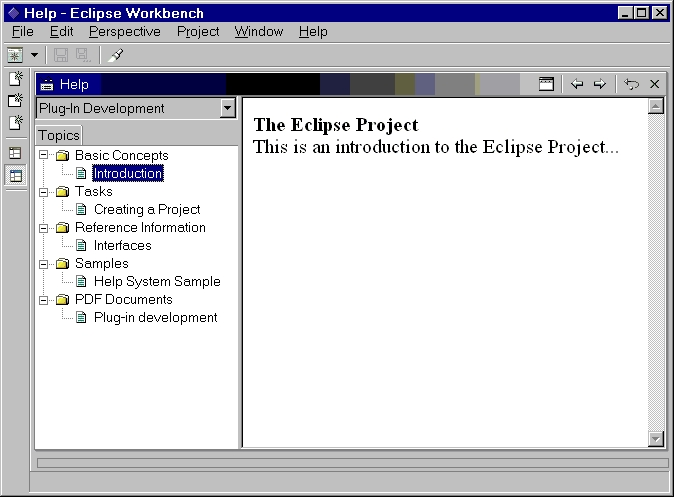
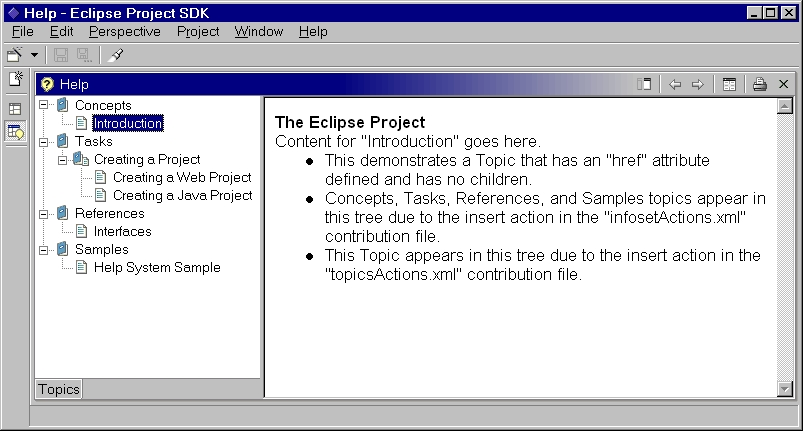
1GDU57M

Changed region(s): [[0.0, 0.0, 1.0, 1.0]]

diff --git a/org.eclipse.help/doc/org_eclipse_help_contributions.html b/org.eclipse.help/doc/org_eclipse_help_contributions.html
@@ -219,7 +219,7 @@ insertion points are ignored.
 <br>&nbsp;
 <p><b><i>Examples:</i></b>
 <p>The following is an example of using the <tt>contributions</tt> extension
-point. Assume the following is for a plug-in with id&nbsp; named <tt>"com.example.isvguide"</tt>.
+point. Assume the following is for a plug-in with id&nbsp; named <tt>"org.eclipse.help.examples.ex1"</tt>.
 (The example is intended as a general sample, and it should be noted that
 the same documentation hierarchy, resulting from all the following contribution
 files, could also be created with various combination of topics and actions
@@ -235,23 +235,27 @@ view, and another to define the&nbsp;&nbsp; --></tt>
 <br><tt>&nbsp;&nbsp; &lt;!-- Topics and their associated actions.&nbsp;&nbsp;&nbsp;&nbsp;&nbsp;&nbsp;&nbsp;&nbsp;&nbsp;&nbsp;&nbsp;&nbsp;&nbsp;&nbsp;&nbsp;&nbsp;&nbsp;&nbsp;&nbsp;&nbsp;&nbsp;&nbsp;&nbsp;&nbsp;&nbsp;&nbsp;&nbsp;&nbsp;&nbsp;&nbsp;&nbsp;&nbsp;&nbsp;&nbsp;&nbsp;&nbsp;&nbsp;&nbsp;&nbsp;&nbsp;
 --></tt>
 <br><tt>&nbsp;&nbsp; &lt;extension point="org.eclipse.help.contributions"></tt>
-<br><tt>&nbsp;&nbsp;&nbsp;&nbsp; &lt;infoset name="infoset.xml"/></tt>
+<br><tt>&nbsp;&nbsp;&nbsp; &lt;infoset&nbsp; name="infoset.xml"/></tt>
 <br><tt>&nbsp;&nbsp; &lt;/extension></tt>
 <p><tt>&nbsp;&nbsp; &lt;extension point="org.eclipse.help.contributions"></tt>
+<br><tt>&nbsp;&nbsp;&nbsp;&nbsp; &lt;topics&nbsp; name="infosetTopics.xml"/></tt>
 <br><tt>&nbsp;&nbsp;&nbsp;&nbsp; &lt;actions name="infosetActions.xml"/></tt>
-<br>&nbsp;&nbsp;&nbsp;&nbsp;&nbsp;&nbsp;&nbsp;&nbsp;&nbsp; <tt>&lt;topics
-name="infosetTopics.xml"/></tt>
-<br><tt>&nbsp;&nbsp;&nbsp;&nbsp; &lt;topics name="concepts.xml"/></tt>
-<br><tt>&nbsp;&nbsp;&nbsp;&nbsp; &lt;topics name="tasks.xml"/></tt>
-<br><tt>&nbsp;&nbsp;&nbsp;&nbsp; &lt;topics name="reference.xml"/></tt>
-<br><tt>&nbsp;&nbsp;&nbsp;&nbsp; &lt;topics name="samples.xml"/></tt>
-<br><tt>&nbsp;&nbsp;&nbsp;&nbsp; &lt;topics name="pdfdocuments.xml"/></tt>
 <br><tt>&nbsp;&nbsp; &lt;/extension></tt>
+<p><tt>&nbsp;&nbsp; &lt;!-- Configure the help contribution for this plugin
+--></tt>
+<br><tt>&nbsp;&nbsp; &lt;!-- This part should be in a documentation plugin
+--></tt>
+<br><tt>&nbsp;&nbsp; &lt;extension point="org.eclipse.help.contributions"></tt>
+<br><tt>&nbsp;&nbsp;&nbsp;&nbsp;&nbsp;&nbsp;&nbsp; &lt;topics name="topics.xml"/></tt>
+<br><tt>&nbsp;&nbsp;&nbsp;&nbsp;&nbsp;&nbsp;&nbsp; &lt;actions name="topicsActions.xml"
+/></tt>
+<br><tt>&nbsp;&nbsp; &lt;/extension></tt>
+<br>&nbsp;
 <br>&nbsp;
 <p>(in file <tt>infoset.xml</tt>)
 <blockquote><tt>&lt;!-- Define the Infoset, and any views it has. --></tt>
-<br><tt>&lt;infoset id="someinfosetid" label="Plug-In Development" href="isv_home.html"></tt>
-<br><tt>&nbsp; &lt;infoview id="topicsView" label="Topics"/></tt>
+<br><tt>&lt;infoset id="ex1InfosetId" label="%help_system_example"></tt>
+<br><tt>&nbsp;&nbsp;&nbsp;&nbsp;&nbsp; &lt;infoview id="topicsView" label="%topics"/></tt>
 <br><tt>&lt;/infoset></tt></blockquote>
 
 <p><br>(in file <tt>infosetTopics.xml</tt>)
@@ -262,63 +266,54 @@ the view in the&nbsp;&nbsp;&nbsp;&nbsp;&nbsp; --></tt>
 <br><tt>&lt;!-- Infoset.&nbsp;&nbsp;&nbsp;&nbsp;&nbsp;&nbsp;&nbsp;&nbsp;&nbsp;&nbsp;&nbsp;&nbsp;&nbsp;&nbsp;&nbsp;&nbsp;&nbsp;&nbsp;&nbsp;&nbsp;&nbsp;&nbsp;&nbsp;&nbsp;&nbsp;&nbsp;&nbsp;&nbsp;&nbsp;&nbsp;&nbsp;&nbsp;&nbsp;&nbsp;&nbsp;&nbsp;&nbsp;&nbsp;&nbsp;&nbsp;&nbsp;&nbsp;&nbsp;&nbsp;&nbsp;&nbsp;&nbsp;&nbsp;&nbsp;&nbsp;&nbsp;&nbsp;&nbsp;&nbsp;&nbsp;&nbsp;&nbsp;&nbsp;&nbsp;&nbsp;&nbsp;&nbsp;&nbsp;&nbsp;&nbsp;&nbsp;&nbsp;&nbsp;
 --></tt>
 <br><tt>&lt;topics id="topLevelTopics"></tt>
-<br><tt>&nbsp; &lt;topic id="concepts" label="Basic Concepts"/></tt>
-<br><tt>&nbsp; &lt;topic id="tasks" label="Tasks"/></tt>
-<br><tt>&nbsp; &lt;topic id="reference" label="Reference Information"/></tt>
-<br><tt>&nbsp; &lt;topic id="samples" label="Samples"/></tt>
-<br><tt>&nbsp; &lt;topic id="pdfdocs" label="PDF Documents"/></tt>
+<br><tt>&nbsp; &lt;topic id="concepts" label="%concepts"/></tt>
+<br><tt>&nbsp; &lt;topic id="tasks" label="%tasks"/></tt>
+<br><tt>&nbsp; &lt;topic id="references" label="%references"/></tt>
+<br><tt>&nbsp; &lt;topic id="samples" label="%samples"/></tt>
 <br><tt>&lt;/topics></tt></blockquote>
 
 <p><br>Define topics contained in the above general topics:
-<p>(in file <tt>concepts.xml</tt>)
-<blockquote><tt>&lt;topics id="Concepts_topics"></tt>
-<br><tt>&nbsp; &lt;topic id="aConceptId" label="Introduction" href="concepts/intro.html"/></tt>
-<br><tt>&lt;/topics></tt></blockquote>
-
-<p><br>(in file <tt>tasks.xml</tt>)
-<blockquote><tt>&lt;topics id="Tasks_topics"></tt>
-<br><tt>&nbsp; &lt;topic id="aTaskId" label="Creating a Project" href="tasks/createProject.html"/></tt>
-<br><tt>&lt;/topics></tt></blockquote>
-
-<p><br>(in file <tt>reference.xml</tt>)
-<blockquote><tt>&lt;topics id="Reference_topics"></tt>
-<br><tt>&nbsp; &lt;topic id="aReferenceId" label="Interfaces" href="ref/index.html"/></tt>
-<br><tt>&lt;/topics></tt></blockquote>
-
-<p><br>(in file <tt>samples.xml</tt>)
-<blockquote><tt>&lt;topics id="Samples_topics"></tt>
-<br><tt>&nbsp; &lt;topic id="aSampleId" label="Help System Sample" href="samples/helpSample1.html"/></tt>
-<br><tt>&lt;/topics></tt></blockquote>
-
-<p><br>(in file <tt>pdfdocuments.xml</tt>)
-<blockquote><tt>&lt;topics id="PDFDocument_topics"></tt>
-<br><tt>&nbsp; &lt;topic id="aPDFDocumentId" label="Plug-in development"
-href="pdf/isvdoc.pdf"/></tt>
+<p>(in file <tt>topics.xml</tt>)
+<blockquote><tt>&lt;topics id="topics"></tt>
+<br><tt>&nbsp;&lt;topic id="aConceptId" label="%introduction" href="concepts/concept.html"/></tt>
+<br><tt>&nbsp;&lt;topic id="aTaskId" label="%creating_a_project" href="tasks/task1.html"></tt>
+<br><tt>&nbsp; &lt;topic id="aSubTaskId1" label="%creating_a_web_project"
+href="tasks/task2.html"/></tt>
+<br><tt>&nbsp; &lt;topic id="aSubTaskId2" label="%creating_a_java_project"
+href="tasks/task3.html"/></tt>
+<br><tt>&nbsp;&lt;/topic></tt>
+<br><tt>&nbsp;&lt;topic id="aReferenceId" label="%interfaces" href="ref/ref1.html"/></tt>
+<br><tt>&nbsp;&lt;topic id="aSampleId" label="%help_system_sample" href="MissingFile.html"/></tt>
 <br><tt>&lt;/topics></tt></blockquote>
 
 <p><br>Now define the insert actions necessary to create the documentation
 hierarchy :
 <p>(in file <tt>infosetActions.xml</tt>)
-<blockquote><tt>&lt;actions infoview="com.example.isvguide.topicsView"></tt>
-<p><tt>&nbsp; &lt;insert from="com.example.isvguide.topLevelTopics"&nbsp;&nbsp;&nbsp;&nbsp;&nbsp;&nbsp;&nbsp;&nbsp;&nbsp;&nbsp;&nbsp;&nbsp;&nbsp;&nbsp;&nbsp;&nbsp;&nbsp;&nbsp;&nbsp;&nbsp;&nbsp;&nbsp;&nbsp;&nbsp;&nbsp;&nbsp;&nbsp;&nbsp;&nbsp;&nbsp;&nbsp;&nbsp;
-to="com.example.isvguide.topicsView" as="child"/></tt>
-<p><tt>&nbsp; &lt;insert from="com.example.isvguide.Concepts_topics"</tt>
-<br><tt>to="com.example.isvguide.concepts" as="child"/></tt>
-<p><tt>&nbsp; &lt;insert from="com.example.isvguide.Tasks_topics"</tt>
-<br><tt>to="com.example.isvguide.tasks" as="child"/></tt>
-<p><tt>&nbsp; &lt;insert from="com.example.isvguide.Reference_topics"</tt>
-<br><tt>to="com.example.isvguide.reference" as="child"/></tt>
-<p><tt>&nbsp; &lt;insert from="com.example.isvguide.Samples_topics"</tt>
-<br><tt>to="com.example.isvguide.samples" as="child"/></tt>
-<p><tt>&nbsp; &lt;insert from="com.example.isvguide.PDFDocument_topics"</tt>
-<br><tt>to="com.example.isvguide.pdfdocs" as="child"/></tt>
+<blockquote><tt>&lt;actions infoview="org.eclipse.help.examples.ex1.topicsView"></tt>
+<br><tt>&nbsp;&lt;insert from="org.eclipse.help.examples.ex1.topLevelTopics"</tt>
+<br><tt>&nbsp;&nbsp; to="org.eclipse.help.examples.ex1.topicsView" as="child"/></tt>
 <br><tt>&lt;/actions></tt></blockquote>
-
-<p><br>Here is the resulting documentation hierarchy in the Eclipse Workbench
+(in file <tt>topicsActions.xml</tt>)
+<blockquote><tt>&lt;actions infoview="org.eclipse.help.examples.ex1.topicsView"></tt>
+<br><tt>&nbsp;&lt;insert from="org.eclipse.help.examples.ex1.aConceptId"</tt>
+<br><tt>&nbsp;&nbsp; to="org.eclipse.help.examples.ex1.concepts" as="child"/></tt>
+<p><tt>&nbsp;&lt;insert from="org.eclipse.help.examples.ex1.aTaskId"</tt>
+<br><tt>&nbsp;&nbsp; to="org.eclipse.help.examples.ex1.tasks" as="child"/></tt>
+<p><tt>&nbsp;&lt;insert from="org.eclipse.help.examples.ex1.aReferenceId"</tt>
+<br><tt>&nbsp;&nbsp; to="org.eclipse.help.examples.ex1.references" as="child"/></tt>
+<p><tt>&nbsp;&lt;insert from="org.eclipse.help.examples.ex1.aSampleId"</tt>
+<br><tt>&nbsp;&nbsp; to="org.eclipse.help.examples.ex1.samples" as="child"/></tt>
+<br><tt>&lt;/actions></tt>
+<br><tt></tt>&nbsp;
+<br><tt></tt>&nbsp;</blockquote>
+Here is the resulting documentation hierarchy in the Eclipse Workbench
 :
-<p><img SRC="HelpSample.JPG" height=497 width=674>
-<blockquote>&nbsp;</blockquote>
-
+<br>&nbsp;
+<p><img SRC="HelpSample.JPG" height=431 width=803>
+<br>&nbsp;
+<br>&nbsp;
+<br>&nbsp;
+<br>&nbsp;
 <blockquote>&nbsp;</blockquote>
 
 <h4>
